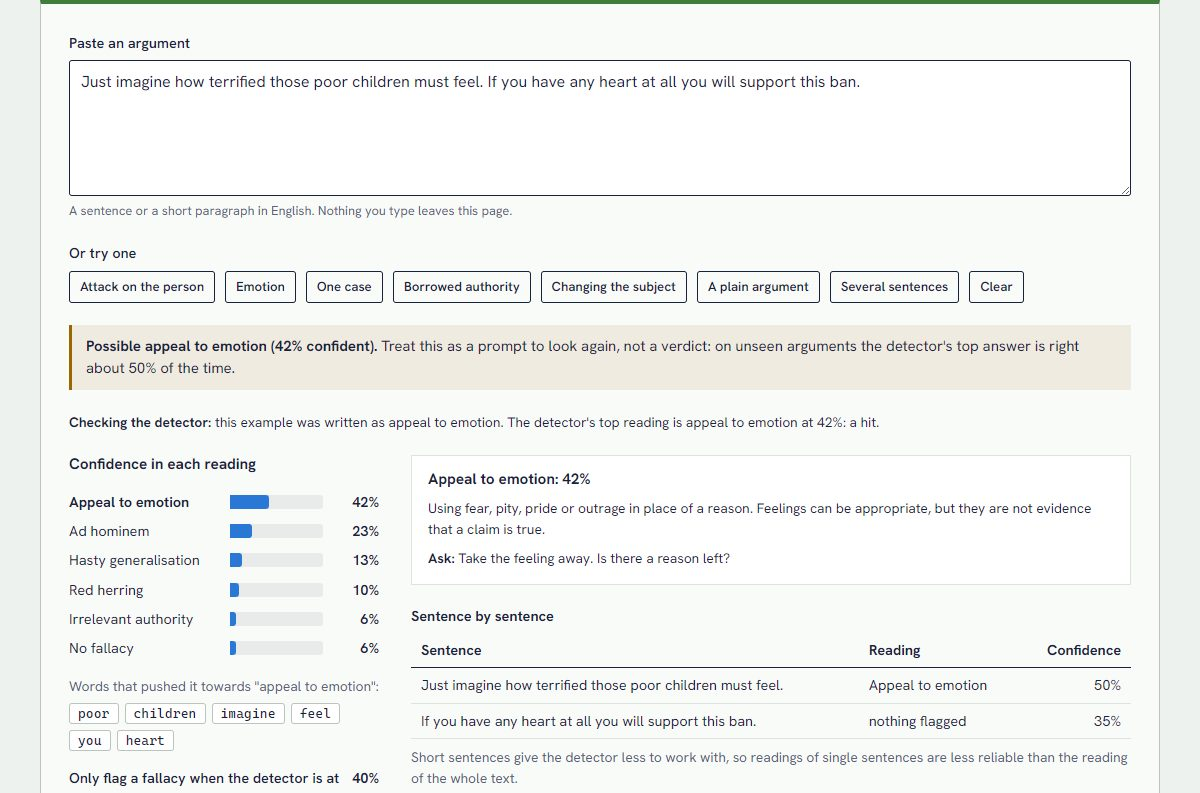
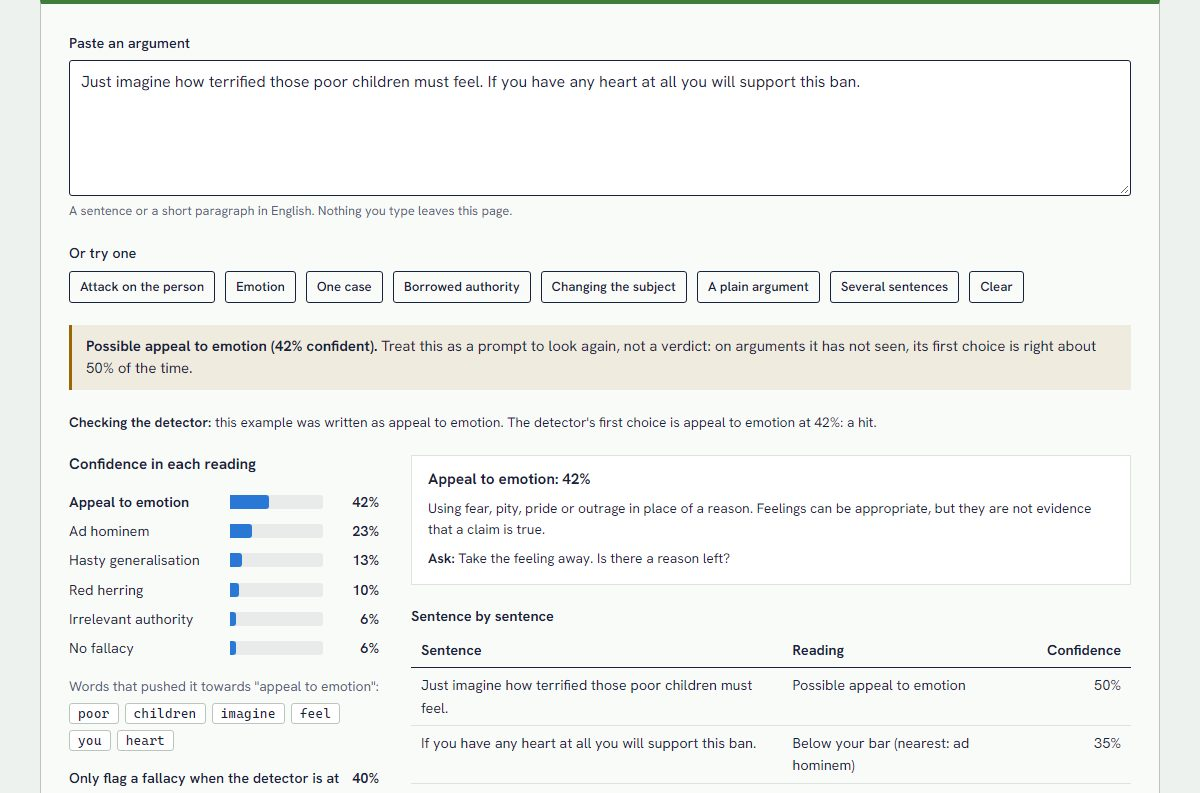
Review project 13: decline non-English text, honest baseline, safer sentence splitter

diff --git a/365projects/13/app.js b/365projects/13/app.js
@@ -1,7 +1,7 @@
 // Day 13: Fallacy Detector. Interface.
 import { $, el, fmt, mount, slider, button, stat, note, table, bars, chart, debounce } from "../kit/kit.js";
 import { FALLACY_MODEL } from "./model.js";
-import { prepare, predict, sentences, selective } from "./logic.js";
+import { prepare, predict, sentences, selective, reading } from "./logic.js";
 
 mount();
 
@@ -18,6 +18,11 @@ const ABOUT = {
   [NONE]: { name: "No fallacy flagged", what: "The wording does not look like any of the five fallacies this detector knows. That is not a certificate of good reasoning: it cannot see whether the premises are true or whether the conclusion follows." },
 };
 const nameOf = (label) => ABOUT[label].name;
+const lower = (label) => (label === NONE ? "no fallacy" : nameOf(label).toLowerCase());
+const conf = (r) => fmt.pct(r.p, 0);
+const TESTED = FALLACY_MODEL.rows;
+const HALF = `its first choice is right about ${fmt.pct(EVAL.accuracy, 0)} of the time`;
+const MAX_SENTENCES = 30, LONG_TEXT = 100;
 
 // Written for this page, not taken from the training data. "written" is what a person would call each one,
 // so the page can say honestly whether the detector agrees.
@@ -42,7 +47,8 @@ const exampleRow = el("div", { class: "row", role: "group", "aria-label": "Examp
   button("Clear", () => { input.value = ""; state.text = ""; state.example = null; update(); input.focus(); }, { small: true }));
 const thresholdSlider = slider({
   label: "Only flag a fallacy when the detector is at least this confident", min: 0.2, max: 0.9, step: 0.05, value: state.threshold, format: (v) => fmt.pct(v, 0),
-  onInput: (v) => { state.threshold = v; update(); },
+  hint: "Confidence is the probability the detector gives a reading, rounded to a whole per cent.",
+  onInput: (v) => { state.threshold = Math.round(v * 100) / 100; update(); },
 });
 
 /* ---------- outputs ---------- */
@@ -53,12 +59,12 @@ const probBars = bars(barsBox, { items: [], max: 1, format: (v) => fmt.pct(v, 0)
 const whyBox = el("div");
 const explainBox = el("div", { class: "grid2" });
 const sentenceBox = el("div");
-const reliabilityNote = el("div");
+const reliabilityNote = el("div", { role: "status" });
 const chartBox = el("div");
 const plot = chart(chartBox, { series: [], height: 280 });
 
 const sAcc = stat("Right about the label", fmt.pct(EVAL.accuracy, 0), `on ${fmt.int(FALLACY_MODEL.rows)} arguments it had not seen. Always guessing the commonest label: ${fmt.pct(EVAL.majorityBaseline, 0)}`);
-const sBin = stat("Right about fallacy or not", fmt.pct(EVAL.fallacyOrNot, 0), "ignoring which fallacy. A coin would get 50%");
+const sBin = stat("Right about fallacy or not", fmt.pct(EVAL.fallacyOrNot, 0), `ignoring which fallacy. Always answering "fallacy" would get ${fmt.pct((TESTED - FALLACY_MODEL.counts[NONE]) / TESTED, 0)}`);
 const sWrong = stat("Wrong about the label", fmt.pct(1 - EVAL.accuracy, 0), "about one answer in two");
 
 function matrixTable() {
@@ -99,19 +105,27 @@ $("#app").append(
     }),
     matrixTable()));
 
-function update() {
-  const text = state.text.trim();
-  const words = text ? text.split(/\s+/).length : 0;
-
-  /* reliability at the chosen threshold */
-  const grid = Array.from({ length: 15 }, (_, i) => 0.2 + i * 0.05);
+// How reliable the detector was in testing at the chosen bar. Redrawn only when the bar moves, so that typing does not re-announce it.
+let shownBar = null;
+function updateReliability() {
+  if (shownBar === state.threshold) return;
+  shownBar = state.threshold;
+  const grid = Array.from({ length: 15 }, (_, i) => (20 + i * 5) / 100);
   const curve = selective(EVAL.pairs, grid);
   const here = selective(EVAL.pairs, [state.threshold])[0];
-  reliabilityNote.replaceChildren(note("",
-    el("strong", { text: `At ${fmt.pct(state.threshold, 0)} confidence or more, the detector's top answer was right ${fmt.pct(here.accuracy, 0)} of the time` }),
-    `, and it was that confident about ${fmt.pct(here.coverage, 0)} of the test arguments. Raising the bar makes it more accurate and more often silent.`));
+  const bar = fmt.pct(state.threshold, 0);
+  const share = `${fmt.int(here.n)} of the ${fmt.int(TESTED)} test arguments (${fmt.pct(here.coverage, here.coverage < 0.095 || (here.coverage > 0.995 && here.coverage < 1) ? 1 : 0)})`;
+  reliabilityNote.replaceChildren(
+    here.n === 0 ? note("", el("strong", { text: `In testing the detector was never as much as ${bar} confident. ` }),
+      `Its highest confidence in any of the ${fmt.int(TESTED)} test arguments was ${fmt.pct(Math.max(...EVAL.pairs.map(([c]) => c)), 0)}, so there is no measured accuracy for a bar this high.`)
+    : here.n < 10 ? note("", el("strong", { text: `At ${bar} confidence or more there is too little to measure. ` }),
+      `The detector was that confident about only ${share}, and its first choice was right in ${fmt.int(Math.round(here.accuracy * here.n))} of them. That is too few to give a rate.`)
+    : note("", el("strong", { text: `At ${bar} confidence or more, the detector's first choice was right ${fmt.pct(here.accuracy, 0)} of the time` }),
+      `, and it was that confident about ${share}. Raising the bar makes it more accurate and more often silent.`));
   plot.update({
     title: "Being choosier makes it more accurate, and quieter",
+    subtitle: "The accuracy line stops where fewer than 10 test arguments are left.",
+    label: "Line chart: as the confidence required rises from 20% to 90%, the share of the detector's answers that are right rises and the share of arguments it still answers falls",
     x: { label: "Confidence required before it gives an answer", format: (v) => fmt.pct(v, 0) },
     y: { domain: [0, 1], format: (v) => fmt.pct(v, 0) },
     series: [
@@ -120,6 +134,12 @@ function update() {
     ],
     marks: [{ type: "vline", x: state.threshold, text: "your setting" }],
   });
+}
+
+function update() {
+  const text = state.text.trim();
+  const words = text ? text.split(/\s+/).length : 0;
+  updateReliability();
 
   exampleNote.replaceChildren();
   if (!text) {
@@ -128,23 +148,28 @@ function update() {
     return;
   }
   const result = predict(model, text);
-  const top = result.ranked[0];
-  const fallacies = result.ranked.filter((r) => r.label !== NONE);
-  const flagged = fallacies.filter((r) => r.p >= state.threshold);
-  const thin = result.known < 4;
+  const read = reading(result, state.threshold, NONE);
+  const { top, nearest, flagged } = read;
+  const thin = read.kind === "thin";
 
   if (thin) {
     verdict.replaceChildren(note("warn", el("strong", { text: "Too little to go on. " }),
-      `The detector recognises only ${result.known} of the words and word pairs in this text. Write a full sentence or two of ordinary English.`));
-  } else if (flagged.length) {
-    verdict.replaceChildren(note("warn", el("strong", { text: `Possible ${nameOf(flagged[0].label).toLowerCase()} (${fmt.pct(flagged[0].p, 0)} confident). ` }),
-      `Treat this as a prompt to look again, not a verdict: on unseen arguments the detector's top answer is right about ${fmt.pct(EVAL.accuracy, 0)} of the time.`));
-  } else if (top.label === NONE) {
-    verdict.replaceChildren(note("good", el("strong", { text: `No fallacy flagged (${fmt.pct(top.p, 0)} confident that it is none of the five). ` }),
-      "This only means the wording does not resemble the fallacies in the training data. It says nothing about whether the argument is sound."));
+      result.words >= 8 && result.knownWords * 3 < result.words
+        ? `The detector knows ${result.knownWords === 0 ? "none" : `only ${fmt.int(result.knownWords)}`} of the ${fmt.int(result.words)} words in this text. It was trained on everyday English and cannot read other languages or specialist vocabulary.`
+        : `The detector recognises ${result.known === 0 ? "none" : `only ${result.known}`} of the words and word pairs in this text. Write a full sentence or two of everyday English.`));
+  } else if (read.kind === "flag") {
+    verdict.replaceChildren(note("warn", el("strong", { text: `Possible ${lower(flagged[0].label)} (${conf(flagged[0])} confident). ` }),
+      top.label === NONE ? `Its first choice, though, is "no fallacy" at ${conf(top)}. ` : "",
+      `Treat this as a prompt to look again, not a verdict: on arguments it has not seen, ${HALF}.`));
+  } else if (read.kind === "none") {
+    verdict.replaceChildren(note("good", el("strong", { text: `No fallacy flagged (${conf(top)} confident that it is none of the five). ` }),
+      `This only means the wording does not resemble the fallacies in the training data. It says nothing about whether the argument is sound, and when "no fallacy" was its answer in testing it was right ${fmt.pct(EVAL.perLabel.find((l) => l.label === NONE).precision, 0)} of the time.`));
   } else {
     verdict.replaceChildren(note("", el("strong", { text: "Nothing clears your confidence bar. " }),
-      `The nearest match is ${nameOf(fallacies[0].label).toLowerCase()} at ${fmt.pct(fallacies[0].p, 0)}, below the ${fmt.pct(state.threshold, 0)} you asked for.`));
+      `The nearest match is ${lower(nearest.label)} at ${conf(nearest)}, below the ${fmt.pct(state.threshold, 0)} you asked for. On arguments it has not seen, ${HALF}.`));
+  }
+  if (!thin && result.words > LONG_TEXT) {
+    verdict.append(note("", `This text is ${fmt.int(result.words)} words long. The detector was trained and tested on arguments of a sentence or two, so its reading of a long text as a whole is untested. The sentence table is the better guide.`));
   }
 
   const example = state.example != null ? EXAMPLES[state.example] : null;
@@ -152,16 +177,16 @@ function update() {
     const hit = top.label === example.written;
     exampleNote.replaceChildren(el("p", { class: "small" },
       el("strong", { text: "Checking the detector: " }),
-      `this example was written as ${example.written === NONE ? "a plain argument with no fallacy" : nameOf(example.written).toLowerCase()}. The detector's top reading is ${top.label === NONE ? "no fallacy" : nameOf(top.label).toLowerCase()} at ${fmt.pct(top.p, 0)}: ${hit ? "a hit" : "a miss"}. ${hit ? "" : "Misses like this are about half of what it does, which is why the numbers below matter more than any single answer."}`));
+      `this example was written as ${example.written === NONE ? "a plain argument with no fallacy" : lower(example.written)}. The detector's first choice is ${lower(top.label)} at ${conf(top)}: ${hit ? "a hit" : "a miss"}. ${hit ? "" : "Misses like this are about half of what it does, which is why the numbers below matter more than any single answer."}`));
   }
 
   probBars.update(result.ranked.map((r) => ({ label: r.label === NONE ? "No fallacy" : nameOf(r.label), value: r.p, highlight: r === top })));
   const because = result.because[top.label];
   whyBox.replaceChildren(...(because.length && !thin ? [
-    el("p", { class: "small muted", text: `Words that pushed it towards "${top.label === NONE ? "no fallacy" : nameOf(top.label).toLowerCase()}":` }),
+    el("p", { class: "small muted", text: `Words that pushed it towards "${lower(top.label)}":` }),
     el("div", { class: "chips" }, because.map((f) => el("span", { class: "chip", text: f.feature, title: `weight ${fmt.num(f.push, 2)}` })))] : []));
 
-  const shown = thin ? [] : (flagged.length ? flagged : top.label === NONE ? [top] : fallacies.slice(0, 1)).slice(0, 2);
+  const shown = thin ? [] : (flagged.length ? flagged : top.label === NONE ? [top] : [nearest]).slice(0, 2);
   explainBox.replaceChildren(...shown.map((r) => el("div", { class: "panel" },
     el("h3", { text: `${nameOf(r.label)}${r.label === NONE ? "" : `: ${fmt.pct(r.p, 0)}`}` }),
     el("p", { class: "small", style: { marginTop: "8px" }, text: ABOUT[r.label].what }),
@@ -169,17 +194,20 @@ function update() {
 
   const parts = sentences(text);
   if (parts.length > 1 && words >= 12) {
-    const rowsOut = parts.map((s) => {
-      const r = predict(model, s);
-      const best = r.ranked.find((x) => x.label !== NONE);
-      const flag = r.known >= 4 && best.p >= state.threshold;
-      return { sentence: s, reading: r.known < 4 ? "too short to judge" : flag ? nameOf(best.label) : "nothing flagged", confidence: r.known < 4 ? "" : fmt.pct(flag ? best.p : r.ranked[0].p, 0) };
+    const rowsOut = parts.slice(0, MAX_SENTENCES).map((sentence) => {
+      const r = reading(predict(model, sentence), state.threshold, NONE);
+      return r.kind === "thin" ? { sentence, reading: "Too little to judge", confidence: "" }
+        : r.kind === "flag" ? { sentence, reading: `Possible ${lower(r.flagged[0].label)}`, confidence: conf(r.flagged[0]) }
+        : r.kind === "none" ? { sentence, reading: "No fallacy flagged", confidence: conf(r.top) }
+        : { sentence, reading: `Below your bar (nearest: ${lower(r.nearest.label)})`, confidence: conf(r.nearest) };
     });
-    sentenceBox.replaceChildren(table({
-      caption: "Sentence by sentence",
+    const sentenceTable = table({
+      caption: parts.length > MAX_SENTENCES ? `Sentence by sentence: the first ${MAX_SENTENCES} of ${fmt.int(parts.length)}` : "Sentence by sentence",
       columns: [{ key: "sentence", label: "Sentence" }, { key: "reading", label: "Reading" }, { key: "confidence", label: "Confidence", num: true }],
       rows: rowsOut,
-    }), el("p", { class: "small muted", style: { marginTop: "8px" }, text: "Short sentences give the detector less to work with, so readings of single sentences are less reliable than the reading of the whole text." }));
+    });
+    sentenceTable.classList.add("sentences");
+    sentenceBox.replaceChildren(sentenceTable, el("p", { class: "small muted", style: { marginTop: "8px" }, text: `Each sentence is read on its own, out of context, against the same bar, and the confidence is for the reading shown. The error rates below were measured on whole arguments, not on sentences lifted out of a longer text, so these readings deserve at least as much doubt.` }));
   } else sentenceBox.replaceChildren();
 }
 

diff --git a/365projects/13/index.html b/365projects/13/index.html
@@ -18,6 +18,8 @@
     table.matrix th, table.matrix td { white-space: nowrap; }
     table.matrix td.diag { font-weight: 700; box-shadow: inset 0 0 0 1.5px var(--ink); }
     table.matrix tbody th { font-weight: 600; border-bottom: 1px solid var(--grid); }
+    #app .tbl:not(.matrix) th { white-space: normal; vertical-align: bottom; }
+    #app .sentences td:first-child { min-width: 10em; }
   </style>
 </head>
 <body class="proj" data-day="13">
@@ -46,27 +48,28 @@
     <section class="p-sec">
       <h2>How it works</h2>
       <h3>The training data</h3>
-      <p>The examples come from Argotario, a game built by researchers at the Technical University of Darmstadt in which players were given an everyday question ("Should cellphones be used during class?") and asked to write a short argument that commits a named fallacy, or none. After removing duplicates and fragments there are 1,297 English arguments: 396 with no fallacy, 234 appeals to emotion, 191 red herrings, 162 ad hominem attacks, 157 hasty generalisations and 157 appeals to irrelevant authority. The label is the fallacy the writer was aiming for. The data are in the public domain.</p>
+      <p>The examples come from Argotario, a game built by researchers at the Technical University of Darmstadt in which players were given a topic for debate ("Should cellphones be used during class?"), a side to take, and the task of writing a short argument that commits a named fallacy, or none. After removing arguments of fewer than four words and exact duplicates there are 1,297 English arguments: 396 with no fallacy, 234 appeals to emotion, 191 red herrings, 162 ad hominem attacks, 157 hasty generalisations and 157 appeals to irrelevant authority. The label is the fallacy the writer was aiming for, whether or not they hit it. The authors released the data under CC0, a public-domain dedication.</p>
       <h3>From text to numbers</h3>
-      <p>Each argument becomes a list of the words and adjacent word pairs it contains. Each of those gets a weight that is larger when it is repeated and when it is rare across the whole collection (TF-IDF), and the list is scaled to length one so that long and short arguments are comparable:</p>
+      <p>Each argument is put into lower case and becomes a list of the words and adjacent word pairs it contains. Each of those gets a weight that is larger when it is repeated and when it is rare across the whole collection (TF-IDF), and the list is scaled to length one so that long and short arguments are comparable:</p>
       <p class="eq"><var>x</var><sub><var>j</var></sub> ∝ (1 + ln <var>count</var><sub><var>j</var></sub>) · (ln((1 + <var>N</var>) / (1 + <var>df</var><sub><var>j</var></sub>)) + 1)</p>
       <p>Only words and pairs that occur in at least two arguments are kept: 3,846 of them.</p>
       <h3>The classifier</h3>
       <p>A softmax regression gives every label a score that is a weighted sum of those numbers, and turns the scores into probabilities:</p>
       <p class="eq"><var>P</var>(label <var>c</var> | text) = exp(<var>w</var><sub><var>c</var></sub> · <var>x</var> + <var>b</var><sub><var>c</var></sub>) / Σ<sub><var>k</var></sub> exp(<var>w</var><sub><var>k</var></sub> · <var>x</var> + <var>b</var><sub><var>k</var></sub>)</p>
-      <p>The weights are found by gradient descent, lowering the cross-entropy between these probabilities and the true labels, with a penalty on large weights so that the model does not memorise. Rare labels are given somewhat more say during training so that the commonest label does not swallow the rest. The "confidence" shown is the probability of the top label. The words listed under the bars are the ones whose weight for that label most exceeds their average weight across labels.</p>
+      <p>The weights are found by gradient descent (300 passes over all the arguments with a step of 4), lowering the cross-entropy between these probabilities and the true labels, with a penalty on large weights (an L2 term whose gradient is 0.0005 times each weight) so that the model does not memorise. Rare labels are given somewhat more say during training so that the commonest label does not swallow the rest: each argument counts in proportion to the square root of (average number of arguments per label ÷ number with its label). The "confidence" shown is the probability the model gives a label, rounded to a whole per cent, and a fallacy is flagged when that figure reaches the bar you set. The words listed under the bars are the ones that pushed hardest towards the first choice: those for which the weight for that label, less the average weight across labels, times the word's value in this text, is largest.</p>
+      <p>The page declines to give a reading when it recognises fewer than four of the words and pairs in a text, or fewer than a third of its words, which is what happens with a few stray words or with a language other than English.</p>
       <h3>Measuring the error rate</h3>
-      <p>The numbers under "How far to trust it" come from five-fold cross-validation. The arguments are split into five parts with the same mix of labels. The model is trained from scratch on four parts and asked to label the fifth, which it has never seen, and this is repeated five times so that every argument is tested once. The table of rows and columns shows every kind of mistake it made. The chart shows what happens if it is only allowed to answer when its confidence clears a bar: accuracy goes up, and the share of arguments it will say anything about goes down.</p>
+      <p>The numbers under "How far to trust it" come from five-fold cross-validation. The arguments are split into five parts with the same mix of labels. The model is trained from scratch on four parts and asked to label the fifth, which it has never seen, and this is repeated five times so that every argument is tested once. The table of rows and columns shows every kind of mistake it made. The chart shows what happens if it is only allowed to answer when its confidence clears a bar: accuracy goes up, and the share of arguments it will say anything about goes down. Its highest confidence in any test argument was 83%, so the top of the slider is a bar it never cleared.</p>
       <p>The model that runs on this page is trained on all 1,297 arguments. Everything is computed in your browser, and the text you type is not sent anywhere.</p>
     </section>
 
     <section class="p-sec">
       <h2>What this cannot tell you</h2>
       <ul>
-        <li><strong>Whether an argument is fallacious.</strong> Its top answer is wrong about half the time. Use a flag as a reason to reread, never as a ruling.</li>
+        <li><strong>Whether an argument is fallacious.</strong> Its first choice is wrong about half the time. Even on the plain question of fallacy or no fallacy it was right 68% of the time, when always answering "fallacy" would have scored 69%. Use a flag as a reason to reread, never as a ruling.</li>
         <li><strong>Anything that depends on context.</strong> It never sees the question being argued, so it cannot know that a subject has been changed. It cannot check whether a cited person is an expert, or how many cases a generalisation rests on. It finds 14% of red herrings and 21% of hasty generalisations.</li>
         <li><strong>Anything outside its five types.</strong> Circular arguments, false dilemmas, straw men and slippery slopes are all invisible to it, and will come back as "no fallacy" or as the wrong one.</li>
-        <li><strong>How real debates are argued.</strong> The examples are short, casual and written by people playing a game who were trying to be fallacious. Parliamentary speeches and newspaper columns do not look like that.</li>
+        <li><strong>How real debates are argued.</strong> The examples are a sentence or two long, casual, and written by people playing a game who were trying to be fallacious. Each is labelled with what its writer intended; the votes of other players on whether the writer succeeded are not used. Parliamentary speeches and newspaper columns do not look like that, and a reading of a long text is untested.</li>
         <li><strong>That an argument is sound.</strong> "No fallacy flagged" means only that the wording is unlike the training examples. It has no view on whether the premises are true.</li>
         <li><strong>That a conclusion is false.</strong> A bad argument can have a true conclusion. Rejecting a claim because it was badly argued is itself a fallacy.</li>
       </ul>
@@ -86,10 +89,10 @@
     <section class="p-sec">
       <h2>Data and sources</h2>
       <ul class="refs">
-        <li>Habernal, I., Hannemann, R., Pollak, C., Klamm, C., Pauli, P., and Gurevych, I. (2017). Argotario: computational argumentation meets serious games. <em>Proceedings of EMNLP 2017: System Demonstrations</em>. Data: github.com/UKPLab/argotario, CC0.</li>
-        <li>Aristotle. <em>Sophistical Refutations</em>.</li>
-        <li>Hamblin, C. L. (1970). <em>Fallacies</em>. Methuen.</li>
-        <li>Jin, Z., et al. (2022). Logical fallacy detection. <em>Findings of EMNLP 2022</em>. A larger benchmark, on which large language models also did poorly.</li>
+        <li>Habernal, I., Hannemann, R., Pollak, C., Klamm, C., Pauli, P., and Gurevych, I. (2017). Argotario: computational argumentation meets serious games. <em>Proceedings of the 2017 Conference on Empirical Methods in Natural Language Processing: System Demonstrations</em>, 7-12. Data: the English arguments file of 15 January 2018 at github.com/UKPLab/argotario, released under CC0.</li>
+        <li>Aristotle. <em>On Sophistical Refutations</em>.</li>
+        <li>Hamblin, C. L. (1970). <em>Fallacies</em>. London: Methuen.</li>
+        <li>Jin, Z., Lalwani, A., Vaidhya, T., Shen, X., Ding, Y., Lyu, Z., Sachan, M., Mihalcea, R., and Schölkopf, B. (2022). Logical fallacy detection. <em>Findings of the Association for Computational Linguistics: EMNLP 2022</em>, 7180-7198. A larger benchmark (2,449 examples of 13 types of fallacy) on which, the authors report, the pretrained language models of the time also performed poorly.</li>
       </ul>
     </section>
   </main>

diff --git a/365projects/13/logic.js b/365projects/13/logic.js
@@ -15,14 +15,38 @@ export function countFeatures(text) {
   return counts;
 }
 
-/** Split text into sentences at ., ! or ? followed by a space. Short fragments are joined to the previous sentence. */
+// A full stop after a title, "vs" or a single letter ("Dr. Smith", "the U.S. economy", "e.g. this") does not end a sentence.
+const ABBREVIATION = /(?:^|[\s("'\[.])(?:mr|mrs|ms|dr|prof|st|sr|jr|vs|[a-z])\.$/i;
+
+/**
+ * Split text into sentences: at ., ! or ? followed by a space and a capital letter or an opening quote, and at line breaks.
+ * A fragment of fewer than three words is joined to the sentence before it (or after it, if it comes first).
+ * Written without regular-expression lookbehind, which Safari before 16.4 cannot parse.
+ */
 export function sentences(text) {
-  const parts = text.replace(/\s+/g, " ").trim().split(/(?<=[.!?]["')\]]?)\s+(?=[A-Z"'(\[])/).map((s) => s.trim()).filter(Boolean);
   const out = [];
-  for (const p of parts) {
-    if (out.length && tokenize(p).length < 3) out[out.length - 1] += ` ${p}`;
-    else out.push(p);
+  let carry = "";
+  const push = (piece) => {
+    const s = `${carry} ${piece}`.trim();
+    carry = "";
+    if (!s) return;
+    if (tokenize(s).length >= 3) out.push(s);
+    else if (out.length) out[out.length - 1] += ` ${s}`;
+    else carry = s;
+  };
+  for (const line of String(text).split(/[\r\n]+/)) {
+    const t = line.replace(/\s+/g, " ").trim();
+    const end = /[.!?]+["')\]]?\s+(?=[A-Z"'(\[])/g;
+    let start = 0, m;
+    while ((m = end.exec(t))) {
+      const piece = t.slice(start, m.index + m[0].length).trim();
+      if (ABBREVIATION.test(piece)) continue;
+      push(piece);
+      start = m.index + m[0].length;
+    }
+    push(t.slice(start));
   }
+  if (carry) out.push(carry);
   return out;
 }
 
@@ -103,8 +127,9 @@ export function prepare(model) {
 }
 
 /**
- * Classify a text. Returns probabilities for every label (best first), the number of known features, and for the
- * top label the features that pushed towards it most: weight for that label minus the average over labels, times the feature value.
+ * Classify a text. Returns probabilities for every label (best first), the number of known features (words and pairs),
+ * the number of words and how many of them are in the vocabulary, and for each label the features that pushed towards
+ * it most: weight for that label minus the average over labels, times the feature value.
  */
 export function predict(prepared, text, topFeatures = 6) {
   const { labels, weights, bias, index, idf, vocab } = prepared;
@@ -117,7 +142,38 @@ export function predict(prepared, text, topFeatures = 6) {
   const explain = (k) => x
     .map(([j, v]) => ({ feature: vocab[j], push: (weights[k][j] - weights.reduce((s, w) => s + w[j], 0) / K) * v }))
     .filter((f) => f.push > 0).sort((a, b) => b.push - a.push).slice(0, topFeatures);
-  return { ranked, known: x.length, words: tokenize(text).length, because: Object.fromEntries(ranked.map((r) => [r.label, explain(r.k)])) };
+  const tokens = tokenize(text);
+  return { ranked, known: x.length, words: tokens.length, knownWords: tokens.filter((t) => index.has(t)).length, because: Object.fromEntries(ranked.map((r) => [r.label, explain(r.k)])) };
+}
+
+/**
+ * Too little to judge: fewer than four known features, or fewer than a third of the words are in the vocabulary.
+ * Ordinary English scores well above a third (99% of the held-out training arguments score over a half);
+ * other languages and strings of unknown words score near zero.
+ */
+export const tooThin = (result) => result.known < 4 || result.knownWords * 3 < result.words;
+
+/**
+ * Does a confidence clear a bar? Both are compared as whole per cents, which is how the page shows them and how the
+ * cross-validation confidences are stored, so "42%" clears a bar of "42%" and a float such as 0.30000000000000004 is 30.
+ */
+export const clears = (p, bar) => Math.round(p * 100) >= Math.round(bar * 100);
+
+/**
+ * What the detector says about one text at a given confidence bar.
+ *   kind "thin"   too little to judge
+ *   kind "flag"   one or more fallacies clear the bar (flagged, best first)
+ *   kind "none"   nothing clears the bar and the first choice is "no fallacy"
+ *   kind "below"  the first choice is a fallacy, but it does not clear the bar
+ * top is the first choice whatever it is; nearest is the most likely fallacy.
+ */
+export function reading(result, bar, none = "No Fallacy") {
+  const top = result.ranked[0];
+  const fallacies = result.ranked.filter((r) => r.label !== none);
+  const nearest = fallacies[0];
+  if (tooThin(result)) return { kind: "thin", top, nearest, flagged: [] };
+  const flagged = fallacies.filter((r) => clears(r.p, bar));
+  return { kind: flagged.length ? "flag" : top.label === none ? "none" : "below", top, nearest, flagged };
 }
 
 /** Deterministic stratified folds: within each label, row i goes to fold i mod k (rows are shuffled by the caller). */
@@ -148,7 +204,7 @@ export function score(labels, truth, predicted) {
  */
 export function selective(pairs, thresholds) {
   return thresholds.map((t) => {
-    const kept = pairs.filter(([c]) => c >= t);
+    const kept = pairs.filter(([c]) => clears(c, t));
     return { threshold: t, coverage: pairs.length ? kept.length / pairs.length : 0, accuracy: kept.length ? kept.filter(([, ok]) => ok).length / kept.length : NaN, n: kept.length };
   });
 }
